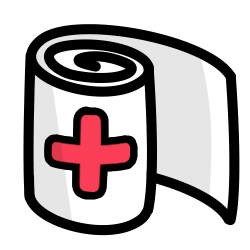
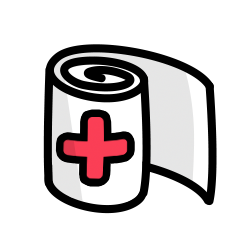
쉴드 + 몬스터 에너지 구현 완료

diff --git a/static/game.js b/static/game.js
@@ -156,6 +156,9 @@ class GameScene extends Scene {
         this.bandageItemImage = new Image();
         this.bandageItemImage.src = 'assets/bandageItem.png';
 
+        this.aidKitItemImage = new Image();
+        this.aidKitItemImage.src = 'assets/aidKitItem.png';
+
         this.monsterEnergyItemImage = new Image();
         this.monsterEnergyItemImage.src = 'assets/monsterEnergyItem.png';
     }
@@ -248,7 +251,7 @@ class GameScene extends Scene {
         this.lastUpdate = now;
         this.frame = Math.round(1000 / dt);
 
-        zoomRatio = (canvas.width / 1920) / 2;
+        zoomRatio = (canvas.width / 1920) / 1.5;
         let padSize = 100 * zoomRatio;
 
         this.padPosition.x = padSize / 5 * 14;
@@ -507,6 +510,8 @@ class GameScene extends Scene {
             itemImage = this.shotGunItemImage;
         } else if (item.type == 'Bandage') {
             itemImage = this.bandageItemImage;
+        } else if (item.type == 'AidKit') {
+            itemImage = this.aidKitItemImage;
         } else if (item.type == 'MonsterEnergy') {
             itemImage = this.monsterEnergyItemImage;
         }
@@ -565,15 +570,23 @@ class GameScene extends Scene {
             ctx.fillStyle = 'rgb(39, 39, 54)';
             ctx.fillRect(textureCoord.renderPosition.x - MS / 2, textureCoord.renderPosition.y - MS / 2, MS, MS / 5);
 
-            ctx.fillStyle = 'rgb(255, 100, 154)';
-            if (users[i].fullHealth != 0)
-                ctx.fillRect(textureCoord.renderPosition.x - MS / 2, textureCoord.renderPosition.y - MS / 2, (MS * users[i].health) / users[i].fullHealth, MS / 5);
+            if (users[i].fullHealth != 0) {
+                let _healthBar = (MS * users[i].health) / users[i].fullHealth;
+                let _healthBarMargin = MS - _healthBar;
+                let _shieldBar = (MS * users[i].shield) / users[i].fullHealth;
+
+                ctx.fillStyle = 'rgb(255, 100, 154)';
+                ctx.fillRect(textureCoord.renderPosition.x - MS / 2, textureCoord.renderPosition.y - MS / 2, _healthBar, MS / 5);
+
+                ctx.fillStyle = 'rgb(100, 255, 120)';
+                ctx.fillRect(textureCoord.renderPosition.x - MS / 2 + _healthBar, textureCoord.renderPosition.y - MS / 2, _shieldBar, MS / 5);
+            }
 
             if (users[i].expendableCharge != 0) {
                 ctx.fillStyle = 'rgb(255, 255, 245)';
                 ctx.textAlign = 'center';
                 ctx.font = "bold 20px blackHanSans";
-                ctx.fillText('using (' + Math.round(users[i].expendableCharge * 100) + '%)', textureCoord.renderPosition.x, textureCoord.renderPosition.y - MS / 3 * 2);
+                ctx.fillText('(' + Math.round(users[i].expendableCharge * 100) + '%)', textureCoord.renderPosition.x, textureCoord.renderPosition.y - MS / 3 * 2);
             }
         }
 
@@ -675,6 +688,11 @@ socket.on('playerDied', (packet) => {
 socket.on('particleBlood', (packet) => {
     for (let i = 0; i < Math.round(Math.random()) + 2; i++)
         particles.push(new BloodParticle(packet.position.x, packet.position.y, 20, 30));
+});
+
+socket.on('particleShield', (packet) => {
+    for (let i = 0; i < Math.round(Math.random()) + 2; i++)
+        particles.push(new ShieldParticle(packet.position.x, packet.position.y, 20, 30));
 });
 
 socket.on('particleBullet', (packet) => {

diff --git a/indexServer.js b/indexServer.js
@@ -11,7 +11,7 @@ const { Bush, Rock } = require('./server/mapObject');
 const { Bullet, bullets } = require('./server/bullet');
 const { createUserKey } = require('./server/keyCreator');
 const { Player, users } = require('./server/player');
-const { items, PistolItem, MachineGunItem, ShotGunItem, BandageItem, MonsterEnergyItem } = require('./server/item');
+const { items, PistolItem, MachineGunItem, ShotGunItem, BandageItem, MonsterEnergyItem, AidKitItem } = require('./server/item');
 
 app.use(express.static('static'));
 app.use(express.static('static/assets'));
@@ -117,6 +117,7 @@ function sendGamePackets() {
         userData.items = value.items;
         userData.currentItem = value.currentItem;
         userData.expendableCharge = value.expendableCharge;
+        userData.shield = value.shield;
 
         data.users.push(userData);
     }
@@ -137,10 +138,14 @@ function decreaseDamageCircle() {
 function initialize() {
     createLandforms(landforms, MS);
 
-    items.push(new PistolItem(Math.round(Math.random() * 8000) - 4000, Math.round(Math.random() * 8000) - 4000));
+    items.push(new PistolItem(0, 0));
     items.push(new MachineGunItem(Math.round(Math.random() * 8000) - 4000, Math.round(Math.random() * 8000) - 4000));
     items.push(new ShotGunItem(Math.round(Math.random() * 8000) - 4000, Math.round(Math.random() * 8000) - 4000));
     items.push(new BandageItem(0, 0));
+    items.push(new AidKitItem(0, 0));
+    items.push(new MonsterEnergyItem(0, 0));
+    items.push(new MonsterEnergyItem(0, 0));
+    items.push(new MonsterEnergyItem(0, 0));
     items.push(new MonsterEnergyItem(0, 0));
 }
 

diff --git a/static/vfx.js b/static/vfx.js
@@ -73,3 +73,44 @@ class BloodParticle {
         ctx.fill();
     }
 }
+
+class ShieldParticle {
+    constructor(x, y, r, v) {
+        this.position = {
+            x: x,
+            y: y,
+        };
+        this.r = r;
+        this.rv = 0;
+        this.timer = 1;
+
+        this.xv = Math.round(Math.random() * v) - (v / 2);
+        this.yv = Math.round(Math.random() * v) - (v / 2);
+    }
+
+    render() {
+
+        this.xv += (0 - this.xv) / 10;
+        this.yv += (0 - this.yv) / 10;
+
+        this.r += this.rv;
+        if (this.r <= 0) this.r = 0;
+
+        this.rv -= 0.05;
+
+        this.position.x += this.xv;
+        this.position.y += this.yv;
+
+        this.textureCoord = Mathf.getRenderInfo(this.position, this.r, this.r);
+        this.textureCoord.renderPosition.x = Math.round(this.textureCoord.renderPosition.x);
+        this.textureCoord.renderPosition.y = Math.round(this.textureCoord.renderPosition.y);
+
+        this.timer -= 0.01;
+
+        ctx.beginPath();
+        ctx.fillStyle = `rgba(100, 255, 120, ${this.timer})`;
+        ctx.arc(this.textureCoord.renderPosition.x - this.textureCoord.renderWidth / 2
+            , this.textureCoord.renderPosition.y - this.textureCoord.renderHeight / 2, this.textureCoord.renderWidth / 2, 0, 2 * Math.PI);
+        ctx.fill();
+    }
+}

diff --git a/server/player.js b/server/player.js
@@ -54,6 +54,10 @@ class Player {
 
         this.currentItem = this.items[this.selectedSlot - 1];
 
+        if (this.health + this.shield >= this.fullHealth) {
+            this.shield = this.fullHealth - this.health;
+        }
+
         if (this.currentItem != null) {
             if (this.currentItem.itemType == 'Gun') {
                 this.gun = this.currentItem.gunData;
@@ -200,11 +204,14 @@ class Player {
                 if (this.health >= this.fullHealth) {
                     this.health = this.fullHealth;
                 }
+            } else if (this.currentItem.type == 'AidKit') {
+                this.health += this.currentItem.heal;
+
+                if (this.health >= this.fullHealth) {
+                    this.health = this.fullHealth;
+                }
             } else if (this.currentItem.type == 'MonsterEnergy') {
                 this.shield += this.currentItem.shield;
-                if (this.shield >= this.fullHealth) {
-                    this.shield = this.fullHealth;
-                }
             }
 
             let item = this.items[this.selectedSlot - 1];

diff --git a/server/bullet.js b/server/bullet.js
@@ -38,9 +38,20 @@ class Bullet {
             if (value != this.owner) {
                 if (Math.abs(this.position.x - value.position.x) <= (MS / 2 + this.bulletRadius / 2) &&
                     Math.abs(this.position.y - value.position.y) <= (MS / 2 + this.bulletRadius / 2)) {
-                    value.health -= this.damage;
+
+                    if (value.shield > 0)
+                        io.emit('particleShield', { position: this.position });
+
+                    value.shield -= this.damage;
+
+                    if (value.shield < 0) {
+                        io.emit('particleBlood', { position: this.position });
+                        value.health -= -value.shield;
+                        value.shield = 0;
+                    }
+
                     value.moveSpeed = value.status.moveSpeed / 2;
-                    io.emit('particleBlood', { position: this.position });
+
                     io.emit('particleBullet', { position: this.position, radius: this.bulletRadius });
                     this.delete(bullets);
                 }

diff --git a/server/item.js b/server/item.js
@@ -110,8 +110,17 @@ class BandageItem extends Item {
     constructor(x, y) {
         super('Bandage', x, y);
         this.itemType = 'Expendable';
-        this.heal = 15;
+        this.heal = 10;
         this.chargeTime = 1 / 60 / 3;
+    }
+}
+
+class AidKitItem extends Item {
+    constructor(x, y) {
+        super('AidKit', x, y);
+        this.itemType = 'Expendable';
+        this.heal = 20;
+        this.chargeTime = 1 / 60 / 7;
     }
 }
 
@@ -119,12 +128,12 @@ class MonsterEnergyItem extends Item {
     constructor(x, y) {
         super('MonsterEnergy', x, y);
         this.itemType = 'Expendable';
-        this.shield = 20;
+        this.shield = 10;
         this.chargeTime = 1 / 60 / 4;
     }
 }
 
 module.exports = {
     items, Item, PistolItem, MachineGunItem, ShotGunItem
-    , BandageItem, MonsterEnergyItem
+    , BandageItem, AidKitItem, MonsterEnergyItem
 };
